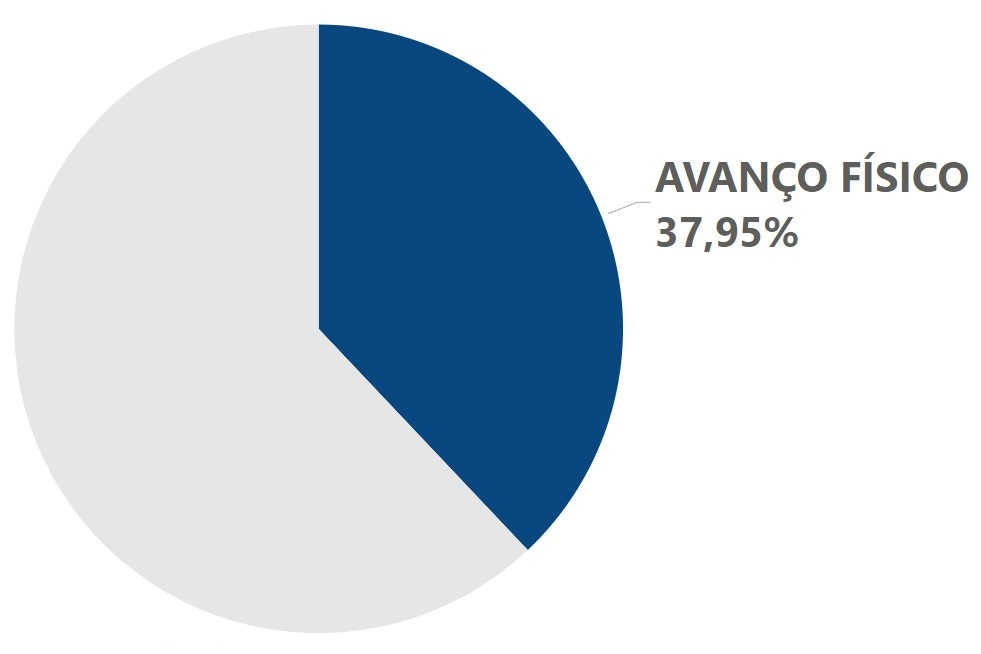
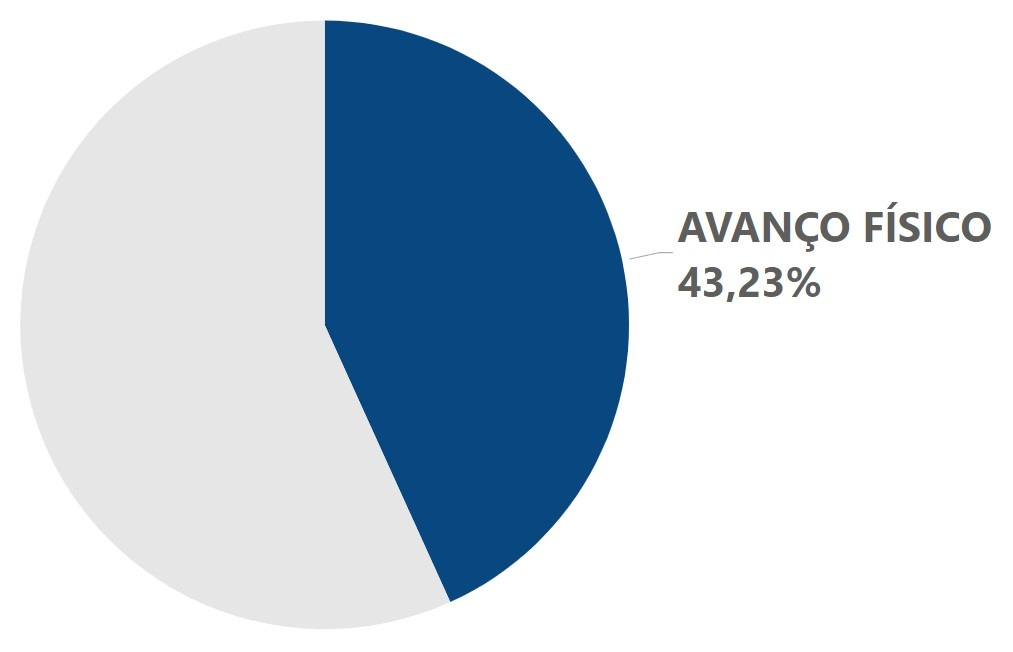
Atualização imagens e textos

diff --git a/script.js b/script.js
@@ -16,7 +16,7 @@ var marker1 = L.marker([-3.795764, -38.534455]).addTo(map);
 
 var popupContent1 = '<div class="popup-content">' +
   '<img src="\FORTALEZA.png">' +
-  '<p class="popup-text"><strong>SUB-BACIAS CE-07_08_09_ETE COCÓ</strong><br><br>CONTRATO: 048/2022<br>AVANÇO FÍSICO: 6,22%<br>AVANÇO FINANCEIRO: 11,46%<br><br>CLIQUE PARA MAIS INFORMAÇÕES...</p>' +
+  '<p class="popup-text"><strong>SUB-BACIAS CE-07_08_09_ETE COCÓ</strong><br><br>CONTRATO: 048/2022<br>AVANÇO FÍSICO: 8,54%<br>AVANÇO FINANCEIRO: 13,38%<br><br>CLIQUE PARA MAIS INFORMAÇÕES...</p>' +
   '</div>';
   
 
@@ -42,7 +42,7 @@ marker1.on('click', function(e) {
 
 // marker2
 var marker2 = L.marker([-4.088785, -38.500393]).addTo(map);
-marker2.bindPopup('<div class="popup-content"><img src="\HORIZONTE.png"><p class="popup-text"><strong>SAAI HORIZONTE, PACAJUS E CHOROZINHO </strong> <br><br> CONTRATO: 039/2022 <br> AVANÇO FÍSICO: 12,43% <br> AVANÇO FINANCEIRO:  21,69% <br><BR>CLIQUE PARA MAIS INFORMAÇÕES...</p></div>');
+marker2.bindPopup('<div class="popup-content"><img src="\HORIZONTE.png"><p class="popup-text"><strong>SAAI HORIZONTE, PACAJUS E CHOROZINHO </strong> <br><br> CONTRATO: 039/2022 <br> AVANÇO FÍSICO: 16,81% <br> AVANÇO FINANCEIRO:  23,23% <br><BR>CLIQUE PARA MAIS INFORMAÇÕES...</p></div>');
 
 marker2.on('mouseover', function(e) {
   this.getElement().classList.add('marker-neon');
@@ -59,7 +59,7 @@ marker2.on('click', function(e) {
 
 // marker3
 var marker3 = L.marker([-3.81323, -38.49515]).addTo(map);
-marker3.bindPopup('<div class="popup-content"><img src="\PERDAS.png"><p class="popup-text"><strong>REDUÇÃO DE PERDAS CASTELÃO E MESSEJANA </strong> <br><br> CONTRATO: CTR139/2021 <br> AVANÇO FÍSICO: 37,95% <br> AVANÇO FINANCEIRO:  35,41% <br><BR>CLIQUE PARA MAIS INFORMAÇÕES...</p></div>');
+marker3.bindPopup('<div class="popup-content"><img src="\PERDAS.png"><p class="popup-text"><strong>REDUÇÃO DE PERDAS CASTELÃO E MESSEJANA </strong> <br><br> CONTRATO: CTR139/2021 <br> AVANÇO FÍSICO: 43,23% <br> AVANÇO FINANCEIRO: 41,62% <br><BR>CLIQUE PARA MAIS INFORMAÇÕES...</p></div>');
 
 marker3.on('mouseover', function(e) {
   this.getElement().classList.add('marker-neon');
